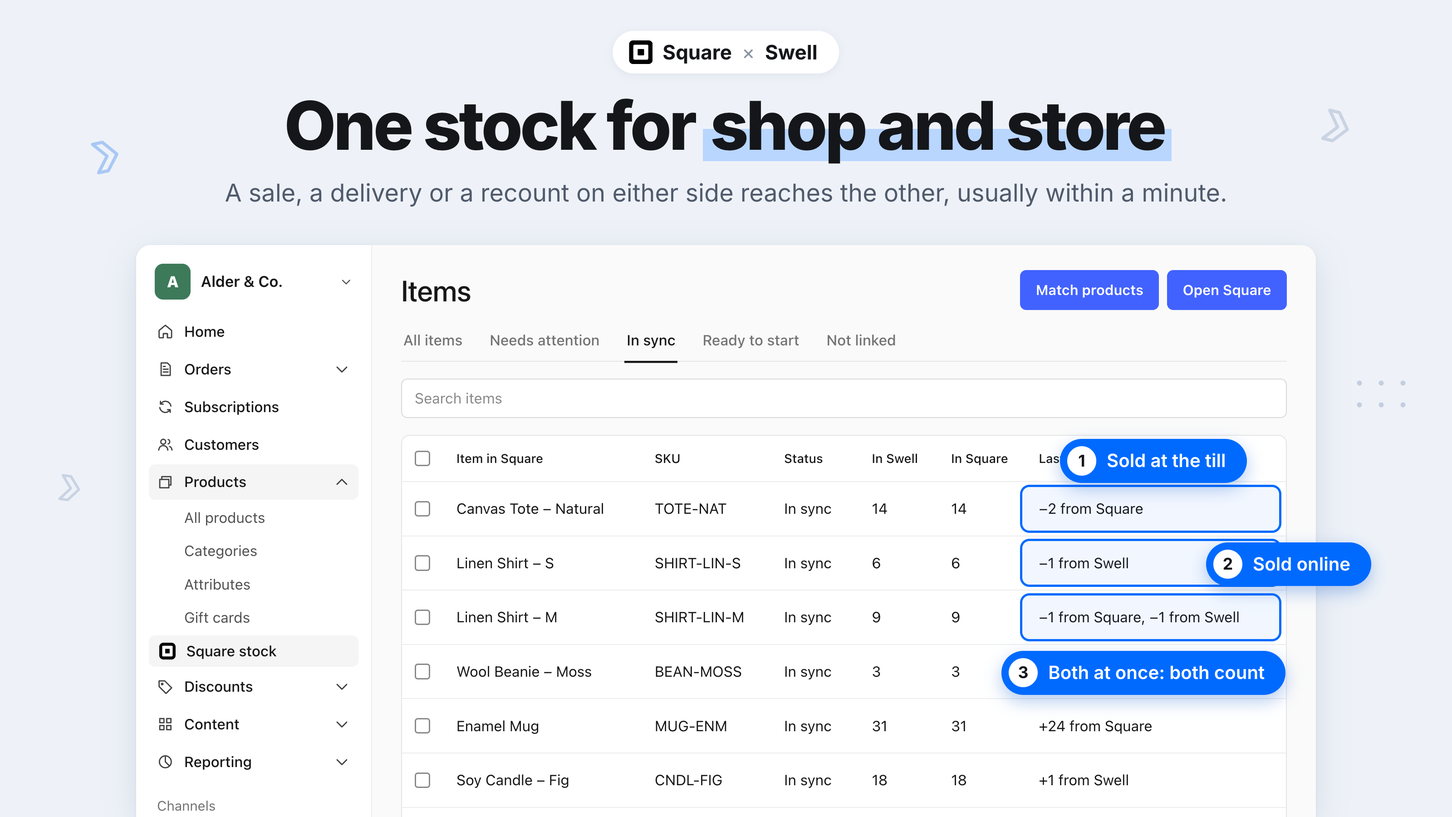
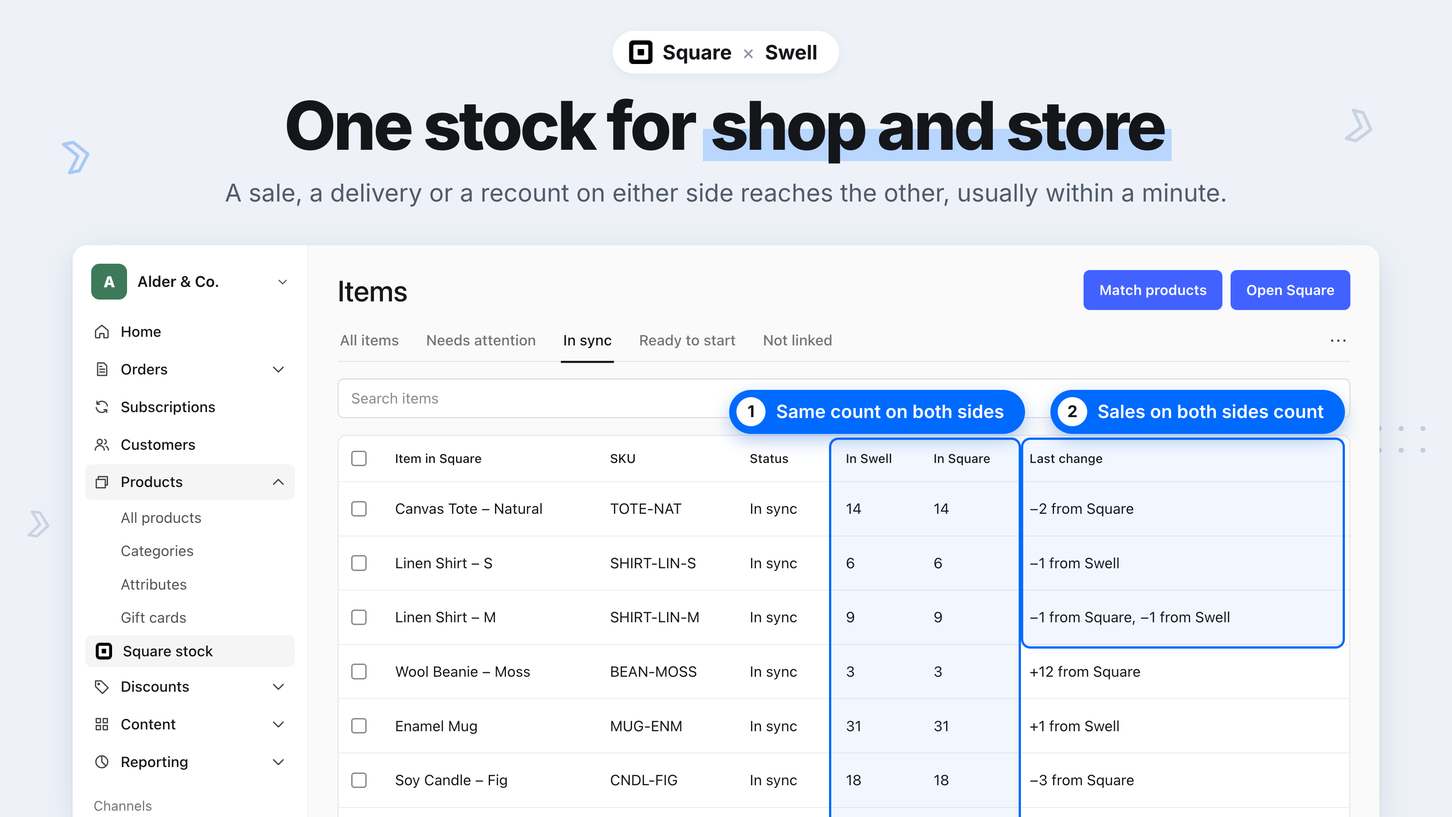
First release

diff --git a/README.md b/README.md
@@ -1,27 +1,47 @@
 # Square POS for Swell
 
-Connects a shop that sells with [Square Point of Sale](https://squareup.com/point-of-sale) to its Swell store. It does two things:
+Connects a shop that sells with [Square Point of Sale](https://squareup.com/point-of-sale) to its Swell store, so that both sell from one stock and keep one order history. A sale, a delivery or a recount on either side reaches the other, usually within a minute. Each sale completed in Square becomes a paid order in Swell, with the lines, discounts, taxes and total of the receipt, on the customer's account when Swell knows the customer.
 
-- **One stock.** The shop and the online store sell from the same stock. A sale, a delivery or a recount on either side reaches the other, usually within a minute.
-- **One order history.** Each sale completed in Square becomes a paid order in Swell, on the customer's account when Swell knows the customer.
-
-The app works with the merchant's own Square access token. Swell runs it: there is no other service between the store and Square. It never changes Square's catalog, orders or customers; in Square it writes stock adjustments only. In Swell it writes stock entries, the orders it imports with their payments and refunds, one account for walk-in customers, and one payment method, "Square POS", which is switched off for shoppers.
+The app runs inside Swell with the merchant's own Square access token; there is no other service in between. In Square it writes stock adjustments only: it never changes the catalog, orders or customers there. In Swell it writes stock entries, the orders it imports with their payments and refunds, one account for walk-in customers, and one payment method, "Square POS", which shoppers never see.
 
 ## Setup
 
+### What you need from Square
+
+- A Square account with at least one location, and the products you sell in both places carrying the **same SKU** in Square and in Swell. Items are linked by SKU only.
+- An application in the [Square Developer Console](https://developer.squareup.com/apps) (any name; it is only a holder for the token). Open its **Credentials** page, switch to **Production**, and copy the **access token**. The token gives access to your whole Square account: treat it like a password.
+
+### Install and connect
+
 1. Install the app from Apps in the Swell dashboard.
-2. In the [Square Developer Console](https://developer.squareup.com/apps), create an application (any name), open its **Credentials** page, switch to **Production** and copy the **access token**. The token gives access to your whole Square account: treat it like a password.
-3. In Swell, open Apps → Square POS → Settings, paste the token under **Square access token**, save, and press **Test connection**. It names the connected account and its locations, registers the notices Square sends to this store when stock or payments change, and adds the payment method "Square POS" that imported sales are recorded with (a manual method, switched off: shoppers never see it).
-4. **Inventory.** If your Square account has several locations, enter the name of the one that shares its stock with the store, turn on **Keep the stock of linked items in sync**, and save. Choose **Match products** in the Actions menu, then open Products → Square stock: each Square item whose SKU a Swell product or variant has is listed as **Ready to start**, with the quantity on both sides. Select the items, choose **Start syncing**, and say which side has the right quantities. Nothing moves before an item is started. See "Stock".
-5. **Sales.** Turn on **Import completed Square sales as orders**. Sales are imported from that moment on: a sale completed earlier stays out, also when it is refunded later. For earlier sales choose **Import past sales** in the Actions menu. See "Sales".
+2. Open Apps → Square POS → Settings, paste the token under **Square access token**, save, and press **Test connection**. It shows the connected account and its locations, registers the notices Square sends to this store when stock or payments change, and adds the payment method "Square POS" that imported sales are recorded with (a manual method, switched off for the checkout).
+3. **Stock.** Under Inventory, turn on **Keep the stock of linked items in sync** and save. Choose **Match products** in the Actions menu. Then open Products → Square stock: each Square item with a matching SKU is listed as **Ready to start**, with its quantity on both sides. Select the items, choose **Start syncing**, and say which side has the right quantities. Nothing moves before an item is started.
+4. **Sales.** Under Sales, turn on **Import completed Square sales as orders** and save. Sales are imported from that moment on. For earlier sales choose **Import past sales** in the Actions menu.
 
-Settings are separate for the store's test and live environments, and both start empty. To try the app without touching your shop, use the **Sandbox** access token of your Square application in the test environment and set **Square environment** to Sandbox. Do not connect the test environment to your production Square account: stock changes of test orders would reach your shop.
+To try the app first, use the **Sandbox** access token of your Square application in the store's test environment, with **Square environment** set to Sandbox. Settings are separate for the test and live environments, and both start empty. Do not connect the test environment to your production Square account: stock changes of test orders would reach your shop.
 
-## Stock
+### Settings
 
-### Which items share their stock
+| Group | Setting | What it does |
+| --- | --- | --- |
+| Connection | **Square access token** | The token from your Square application. Stored as a secret |
+| | **Square environment** | Production (default) or Sandbox. Must match the token: a sandbox token works only with Sandbox |
+| | **Connected account** | Filled in by Test connection: the Square account and its locations |
+| | **Test connection** | Checks the token, lists the locations, registers Square's notices and adds the Square POS payment method. Run it again after changing the token |
+| Inventory | **Keep the stock of linked items in sync** | Off by default. While off, no stock moves in either direction |
+| | **Square location (name)** | The one Square location whose stock is shared with the store. Empty: the account's main location |
+| | **Swell stock location (name)** | Only for stores that keep stock by location: the Swell location paired with the Square one. Empty: the store's stock as a whole |
+| Sales | **Import completed Square sales as orders** | Off by default. Turning it on starts the import from that moment |
+| | **Square locations (names, separated by commas)** | The locations whose sales are imported. Empty: all locations |
+| | **Let other apps and webhooks react to imported orders** | Off by default: imported orders raise no events, so other apps and webhooks are not told about them. Turn it on if, for example, an accounting app should see till sales. Customers get no e-mail either way |
 
-An item is linked when exactly one Square variation and exactly one Swell product or variant have the same SKU. Nothing is guessed: everything else is listed under **Not linked** with the reason.
+Changing the Square location or the Swell stock location stops the started items, since another location holds other quantities. Match products again and start them anew.
+
+## Features
+
+### One stock
+
+**Which items are linked.** An item is linked when exactly one Square variation and exactly one Swell product or variant have the same SKU. Nothing is guessed: everything else is listed under **Not linked** with the reason.
 
 | Not linked because | What to do |
 | --- | --- |
@@ -33,15 +53,11 @@ An item is linked when exactly one Square variation and exactly one Swell produc
 | The Swell product does not track stock | Turn on stock tracking for the product |
 | Square sells the item by weight or measure | Only whole quantities can be shared |
 
-Square variations without a SKU are not listed. Matching changes nothing in Square and moves no stock; run it again whenever you add products or SKUs. Items that are in sync are not touched by it.
+Square variations without a SKU are not listed. Matching changes nothing in Square and moves no stock, and it leaves items that are in sync alone. Run it again whenever you add products or SKUs.
 
-### Starting an item
+**Starting an item** is the one time a side wins. You say whether Square or Swell has the right quantity, and the other side receives the difference as a single stock adjustment ("Square POS: starting stock taken from Square" in Swell's stock history; stock received or removed in Square's). An item that Square has never counted can be started from Swell's quantity.
 
-Starting is the one time a side wins. You say whether Square or Swell has the right quantity, and the other side receives the difference as a single stock adjustment ("Square POS: starting stock taken from Square" in Swell's stock history, received or removed stock in Square's). An item that Square has never counted can be started from Swell's quantity.
-
-### What happens afterwards
-
-Only changes travel, never totals. The app remembers the quantity both sides held after the last sync. What Swell has gained or lost since then is added to Square, and what Square has gained or lost is added to Swell. A sale at the till and an online order at the same moment therefore both count.
+**After that, only changes travel, never totals.** The app remembers the quantity both sides held after the last sync. What Swell gained or lost since then is added to Square, and what Square gained or lost is added to Swell. A sale at the till and an online order at the same moment therefore both count.
 
 | Happens | Arrives as |
 | --- | --- |
@@ -50,50 +66,80 @@ Only changes travel, never totals. The app remembers the quantity both sides hel
 | In Swell: a canceled order, a restocked return, received stock | An adjustment in Square: stock received |
 | In Swell: stock marked damaged or missing | An adjustment in Square: stock lost |
 
-- **How fast.** Square announces a change within seconds, and Swell records its own at once; the sync that follows takes a few seconds more. Every five minutes the app also compares all linked items, whether or not a change was announced, so a lost notice costs minutes and not stock.
-- **Selling the last unit on both sides at once** cannot be prevented by any sync. Both sides then show −1 and the item is listed under **Needs attention** as oversold until its stock is positive again.
-- **A stopped item.** When an item can no longer be synced (its product was deleted, Square has no count for it any more, Square refuses the change) it stops, is listed under **Needs attention** with the reason, and the store's administrators get one e-mail. All other items go on. After correcting the cause, start the item again.
+- **How fast.** Square announces a change within seconds, and Swell records its own at once; the sync that follows takes a few seconds more. Every five minutes the app also compares all linked items, whether or not a change was announced, so a lost notice costs minutes, not stock.
+- **The last unit sold on both sides at once** cannot be prevented by any sync. Both sides then show −1, and the item is listed under **Needs attention** as oversold until its stock is positive again.
+- **An item that stops.** When an item can no longer be synced (its product was deleted, Square has no count for it any more, Square refuses the change), it stops and is listed under **Needs attention** with the reason, and the store's administrators get one e-mail. All other items go on. After correcting the cause, start the item again.
 - **Stop syncing** ends the sharing for the selected items. Nothing changes on either side.
 
-### Stock locations
+Where: Products → Square stock, and the item's own page. Implemented by `functions/square-events.ts` (Square's `inventory.count.updated` notices), `functions/stock-changed.ts` (Swell's `product.stock_adjusted` event), `functions/sweep.ts` (the five-minute comparison) and the `sync` workflow.
 
-One Square location shares its stock with the store. In a Swell store that keeps stock by location, enter the name of the Swell location under **Swell stock location**: the Square location is then paired with that one. Left empty, it is paired with the store's stock as a whole. After changing either location, items stop and have to be started again, since another location holds other quantities.
+### Till sales as orders
 
-## Sales
+Each completed Square sale at the chosen locations becomes one Swell order.
 
-Each completed Square order at the chosen locations becomes one Swell order.
-
-- **The receipt, to the cent.** Lines with name, variation, quantity and price; the discounts and taxes Square charged; tips, service charges and cash rounding as lines of their own. The order's total is what the customer paid. A sale whose lines do not add up to Square's total is not imported and is listed with the reason.
-- **Paid, and silent.** Each Square payment of the sale is recorded on the order as a payment with the method "Square POS" (Square has the money; nothing is charged in Swell), so the order shows as paid, and it needs no fulfillment. No e-mail goes to the customer or to the staff. Other apps and webhooks are not told about it unless you turn on **Let other apps and webhooks react to imported orders**.
+- **The receipt, to the cent.** Lines with name, variation, quantity and price; the discounts and taxes Square charged; tips, service charges and cash rounding as lines of their own. The order's total is what the customer paid. A sale whose lines do not add up to Square's total is not imported: it is listed with the reason, so that no order differs from its receipt.
+- **Paid.** Each Square payment of the sale is recorded on the order as a payment with the method "Square POS" (Square has the money; nothing is charged in Swell), so the order shows as paid. A sale paid by card and cash gets one payment per tender. The order needs no fulfillment.
+- **Silent.** No e-mail goes to the customer or to the staff. Other apps and webhooks are not told about the order unless **Let other apps and webhooks react to imported orders** is on.
 - **No stock is taken.** The lines carry names and amounts, not products, so the order cannot change stock: the stock sync passes on what Square counted. One side effect: Swell's sales reports by product do not include till sales.
-- **Order numbers** start with `SQ-` followed by Square's receipt number, so till sales are recognised in every list and the store's own numbering is not used up.
-- **The customer.** When the sale has a Square customer with an e-mail address and a Swell account has that address, the order goes to that account. All other sales go to one account named "Walk-in customer (Square POS)". The app never creates a customer from a Square profile.
+- **Order numbers** are `SQ-` followed by Square's receipt number, so till sales stand out in every list and the store's own numbering is not used up. The order is dated when the sale was completed, and its comments say where it was sold and how it was paid ("Sold in Square at Main Street, receipt x3Hn. Paid with: Card (Visa 4242).").
+- **The customer.** When the sale has a Square customer with an e-mail address and a Swell account has that address, the order goes to that account. All other sales go to one account, "Walk-in customer (Square POS)". The app never creates a customer from a Square profile.
 - **Refunds.** A refund made in Square is recorded as a refund of the order's Square POS payment, so the order shows as partly refunded or refunded. A refund of a sale that was not imported is left out. Stock follows Square's count when the goods are restocked there.
-- **Not imported:** exchanges (a sale and returned items on one receipt), and sales that an online checkout took through Square's payment API, since that checkout keeps its own orders. Both are listed under **Skipped**.
+- **Not imported:** exchanges (a sale and returned items on one receipt), and sales that an online checkout took through Square's payment API, since that checkout keeps its own orders. Both are listed under **Skipped** with the reason.
+- **How fast.** A sale usually arrives within half a minute of its payment. The five-minute comparison also looks for sales whose notice was lost.
+- **Where it starts.** Sales completed before the import was switched on stay out, also when they are refunded later. **Import past sales** brings them in from a date you choose; a sale imported before is never imported twice.
 
-Orders → Square sales lists every sale with its order. On an order, the **Square POS** tab shows the receipt number, the location, how it was paid and what was refunded.
+Where: Orders → Square sales; the **Square POS** tab on every order (receipt number, location, how it was paid, what was refunded, the Square order ID and a receipt link); the **Square POS** tab in the order list. Implemented by `functions/square-events.ts` (Square's `payment.*` and `refund.*` notices), `functions/sweep.ts` and the `sync` workflow.
 
-## In the dashboard
+### Alerts
 
-| Where | What |
+The store's administrators get one e-mail per incident, not one per item or sale, and no other while it lasts:
+
+| Subject starts with "Action needed:" and | Sent when |
 | --- | --- |
-| Apps → Square POS → Settings | Connection, Inventory and Sales settings; **Test connection** |
-| Actions menu on that page | **Sync now**, **Match products**, **Import past sales**, **Retry failed sales** |
-| Products → Square stock | The linked items with both quantities and the last change. Tabs: Needs attention, In sync, Ready to start, Not linked. **Start syncing** and **Stop syncing** on selected items or on one item |
-| Orders → Square sales | The sales and their orders. Tabs: Needs attention, Imported, Refunded, Skipped. **Retry** and **Mark as resolved** |
-| Orders, tab Square POS | The orders imported from Square |
+| "Square POS is not syncing with \<store\>" | Square refuses the access token, or a location named in the settings does not exist |
+| "Square's notices to \<store\> have stopped" | Square switched off its notices to the store (checked once an hour) |
+| "stock of \<store\> is no longer shared with Square for some items" | An item stopped syncing |
+| "a Square sale could not be imported into \<store\>" | A sale is listed under Needs attention |
+
+Each e-mail says what to do and links to the app. When the subject starts with "(TEST)", the problem is in the store's test environment. Implemented by `models/alerts.json` and `notifications/alert.*`.
+
+### Dashboard actions
+
+| Where | Action | What it does |
+| --- | --- | --- |
+| Settings, Connection | **Test connection** | See "Settings" |
+| Settings, Actions menu | **Sync now** | Compares the stock of every linked item and looks for new Square sales now |
+| | **Match products** | Lists the Square items and their Swell match under Products → Square stock |
+| | **Import past sales** | Imports the sales completed since a date |
+| | **Retry failed sales** | Tries again every sale under Needs attention |
+| Products → Square stock, selected items or one item | **Start syncing**, **Stop syncing** | See "One stock" |
+| | **Open Square** | Opens the item library in the Square Dashboard |
+| Orders → Square sales, selected sales or one sale | **Retry** | Tries the import again and reads the sale's refunds again. A sale that has its order is not imported twice |
+| | **Open Square** | Opens the transactions in the Square Dashboard |
+| A sale's page | **Mark as resolved** | For a failed or skipped sale you recorded by hand, or that needs no order: it is no longer imported or listed under Needs attention |
+| | **View receipt** | Opens Square's receipt |
+
+The buttons start a run in the background; the lists show its result a few seconds later.
+
+## Day-to-day use
+
+- **Selling** needs nothing from you: sell at the till and online as before.
+- **New products.** Give a new product the same SKU in Square and in Swell, choose **Match products**, and start it under Products → Square stock (**Ready to start** tab).
+- **Refunds and returns** are made in Square for till sales, and in Swell for online orders, as before. Restock returned goods on the side that took them back; the stock sync passes the count on.
+- **When an e-mail arrives**, open the app and look under **Needs attention** in Products → Square stock or Orders → Square sales. Each entry names its cause. See "When something goes wrong".
+- **To check the two sides now**, choose **Sync now** in the Actions menu of the settings.
 
 ## When something goes wrong
 
 | What you see | Why, and what to do |
 | --- | --- |
-| E-mail "Square POS is not syncing" | Square refused the access token, or a location named in the settings does not exist. Correct it in the settings and press Test connection. Nothing is lost: when the connection works again, the changes of each side since the last sync are passed to the other, and the sales made meanwhile are imported |
+| E-mail "Square POS is not syncing" | Square refused the access token, or a location named in the settings does not exist. Correct it in the settings and press Test connection. Nothing is lost: once the connection works, the changes of each side since the last sync are passed to the other, and the sales made meanwhile are imported |
 | E-mail "Square's notices have stopped" | Square switches its notices off when they fail for a long time. Press Test connection to switch them on again. Meanwhile changes are found every five minutes |
 | An item under Needs attention | The note says what stopped it. Correct the cause and start the item again |
 | A sale under Needs attention | The problem is on the sale. **Retry** after correcting the cause, or **Mark as resolved** after recording the sale by hand |
-| A sale under Needs attention: "Swell has no payment method Square POS" | The method was removed under Settings → Payments. Press Test connection, which adds it again, then **Retry** |
+| A sale under Needs attention: "Swell has no payment method "Square POS"" | The method was removed under Settings → Payments. Press Test connection, which adds it again, then **Retry** |
 | Stock differs between Square and Swell for a linked item | It should not for longer than five minutes. Choose **Sync now**. If the item is under Needs attention, see above |
-| Test connection: "did not accept the access token" | The token was replaced in Square, or **Square environment** does not match it: a sandbox token works only with Sandbox |
+| Test connection: "Square did not accept the access token" | The token was replaced in Square, or **Square environment** does not match it: a sandbox token works only with Sandbox |
 
 ## Limits and known issues
 
@@ -105,35 +151,9 @@ Orders → Square sales lists every sale with its order. On an order, the **Squa
 - **A refund is recorded when Square has it**, also while Square still shows it as pending (cash refunds are; card refunds complete within days). A card refund that Square later reports as failed stays recorded on the order: correct it by hand.
 - **Imported orders are not linked to products** (see "No stock is taken").
 - **Square gift cards and loyalty** are shown as the way a sale was paid, nothing more.
-- **One environment per Square account.** Connecting the test and the live environment of a store to the same Square location makes both share that location's stock.
-- **After uninstalling**, delete the app's subscription under Webhooks in the Square Developer Console ("Swell <store>"), or Square keeps sending notices until it gives up.
-
-## How it is built
-
-| Part | Files | Job |
-| --- | --- | --- |
-| Route function | `functions/square-events.ts` | Receives Square's notices, checks their signature, marks the items or asks for a sales search, starts a sync |
-| Event function | `functions/stock-changed.ts` | `product.stock_adjusted`: marks the item, starts a sync |
-| Cron function | `functions/sweep.ts` | Every five minutes: starts a sync that compares everything; once an hour checks that Square's notices are still switched on |
-| Workflow | `functions/sync.ts`, `functions/lib/run.ts` | The only place where stock is written and sales are imported. Also runs the dashboard actions |
-| Action functions | `functions/test-connection.ts`, `functions/resolve-sale.ts` | The two buttons that answer at once |
-| Stock | `functions/lib/merge.ts`, `stock.ts`, `match.ts` | The merge (pure), its execution, the SKU match |
-| Sales | `functions/lib/order.ts`, `sales.ts` | The Square order as a Swell order (pure), the import and the refunds |
-| Models | `models/` | `items` (the pairs), `sales`, `alerts`, `state`, and the fields on orders |
-| Permissions | `swell.json` | Products (stock entries), orders, payments (the records of Square's payments and refunds), customers (the walk-in account and the match by e-mail), settings (the stock locations, and the Square POS payment method) |
-| Views | `content/` | Products → Square stock, Orders → Square sales, the Square POS tabs on orders |
-| Notification | `notifications/alert.*` | The e-mail to the administrators, one per incident |
-
-What makes it reliable:
-
-1. **Only differences travel.** A change on one side is added to the other; it never replaces what happened there meanwhile.
-2. **Every step is written down before it is taken.** The pair's record holds the step in progress. The request to Square carries references made from it, and the Swell stock entry an id made from it. A sync that is cut short repeats the step exactly: it asks Square whether the change is there before sending it again, and a stock entry posted twice under one id is one entry.
-3. **One sync at a time.** The functions only mark and start; the workflow alone writes, and holds a claim while it does. A claim that shows no sign of life for four minutes is taken over, also when its run never began.
-4. **Notices are hints, numbers are the truth.** A notice only says "look at this item". The sync compares quantities, so its own changes, repeated notices and notices out of order do no harm.
-5. **Nothing is guessed.** A missing count is never read as zero. What cannot be linked or imported is listed with the reason.
-6. **Stock and sales are separate.** An imported order never moves stock, and a sale that cannot be imported never holds stock back.
-
-Square's API version is pinned (`SQUARE_VERSION` in `functions/lib/square.ts`), for the calls and for the notices.
+- **One environment per Square location.** Connecting the test and the live environment of a store to the same Square location makes both share that location's stock.
+- **After uninstalling**, delete the app's subscription under Webhooks in the Square Developer Console ("Swell \<store\>"), or Square keeps sending notices until it gives up.
+- **Environments.** The app works in the store's live and test environments, against Square's production and sandbox. Square's sandbox has no till: sales made there through the API count as taken by an online checkout, and the app imports them in Sandbox mode only.
 
 ## Development
 
@@ -146,9 +166,35 @@ swell app push      # deploys to the test environment of the logged-in store
 
 The unit tests replace Square with an in-memory stand-in (`test/helpers/square.ts`) that behaves as the sandbox was seen to, and the store with another (`test/helpers/store.ts`). The orders in `test/fixtures/square-orders.ts` are real API responses.
 
-After a change in `functions/lib/` only, push with `--force`: push skips function files whose own content did not change. Workflows do not run under `swell app dev`; they are tested after a push.
+Use `swell app push --force` after a change that touches only `functions/lib/`: push skips function files whose own content did not change. Workflows do not run under `swell app dev`; test them after a push. Square's API version is pinned (`SQUARE_VERSION` in `functions/lib/square.ts`), for the calls and for the notices.
 
-Square's sandbox has no till. Orders, payments and refunds are created there through the API, and such sales count as taken by an online checkout: the app imports them in Sandbox mode only.
+### How it stays right
+
+1. **Only differences travel.** A change on one side is added to the other; it never replaces what happened there meanwhile.
+2. **Every step is written down before it is taken.** The item's record holds the step in progress. The request to Square carries references made from it, and the Swell stock entry an id made from it. A sync that is cut short repeats the step exactly: it asks Square whether the change is there before sending it again, and a stock entry posted twice under one id is one entry.
+3. **One sync at a time.** The functions only mark and start; the workflow alone writes, and holds a claim while it does. A claim that shows no sign of life for four minutes is taken over, also when its run never began.
+4. **Notices are hints, numbers are the truth.** A notice only says "look at this item". The sync compares quantities, so its own changes, repeated notices and notices out of order do no harm.
+5. **Nothing is guessed.** A missing count is never read as zero. What cannot be linked or imported is listed with the reason.
+6. **Stock and sales are separate.** An imported order never moves stock, and a sale that cannot be imported never holds stock back.
+
+### Structure
+
+| Path | Purpose |
+| --- | --- |
+| `swell.json` | Manifest: permissions and the listing's short description and images. Products (stock entries), orders, payments (the records of Square's payments and refunds), accounts (the walk-in account and the match by e-mail), settings (the stock locations, and the Square POS payment method) |
+| `settings/connection.json`, `inventory.json`, `sales.json` | The three settings groups, Test connection and the Actions menu |
+| `functions/square-events.ts` | Route: receives Square's notices, checks their signature, marks the items or asks for a sales search, starts a sync |
+| `functions/stock-changed.ts` | `product.stock_adjusted` → marks the item, starts a sync |
+| `functions/sweep.ts` | Cron, every five minutes: starts a sync that compares everything; once an hour checks that Square's notices are still on |
+| `functions/sync.ts`, `functions/lib/run.ts` | Workflow: the only place where stock is written and sales are imported. Also runs the dashboard actions |
+| `functions/test-connection.ts`, `resolve-sale.ts` | The two actions that answer at once |
+| `functions/lib/merge.ts`, `stock.ts`, `match.ts` | Stock: the merge (pure), its execution, the SKU match |
+| `functions/lib/order.ts`, `sales.ts` | Sales: the Square order as a Swell order (pure), the import and the refunds |
+| `functions/lib/square.ts` | The only module that talks to Square |
+| `models/` | `items` (the linked pairs), `sales`, `alerts`, `state`, and the app's fields on orders |
+| `content/` | Products → Square stock, Orders → Square sales, the Square POS tabs on orders |
+| `notifications/alert.*` | The e-mail to the administrators, sent when an alert record is created |
+| `test/unit/` | Unit tests; Square and the store are stand-ins |
 
 ### App Store listing
 

diff --git a/DESCRIPTION.md b/DESCRIPTION.md
@@ -1,13 +1,15 @@
-Sell from one stock in your Square shop and your Swell store, and see every till sale in your Swell order history. A sale, a delivery or a recount on either side reaches the other, usually within a minute, and each sale completed in Square becomes a paid order in Swell.
+Sell from one stock in your Square shop and your Swell store, and keep every till sale in your Swell order history. When something sells, arrives or is recounted on either side, the other side has it, usually within a minute. Each sale completed in Square becomes a paid order in Swell, with the lines and total of its receipt, to the cent.
 
-Connect Square with your own access token. The app runs inside Swell and never changes your Square catalog, orders or customers: in Square it writes stock adjustments only.
+Connect Square with an access token from your own Square developer application. The app runs inside Swell, with no other service in between, and leaves your Square catalog, orders and customers as they are: in Square it only adjusts stock.
 
-- **Stock that adds up.** Only changes travel, never totals: what Swell sold is taken off Square's count, and what Square sold is taken off Swell's. A sale at the till and an online order at the same moment both count, and a count copied over from the other side never wipes out a change.
-- **Linked by SKU, on your word.** Match products pairs each Square variation with the Swell product or variant that has the same SKU, and lists them with both quantities. You start the pairs and say which side has the right numbers. Doubled or missing SKUs and untracked items stay unlinked, with the reason.
-- **A stock history you can read.** Every change that comes from Square is an entry in the product's stock history in Swell, marked Square POS, with what happened: sold, received, recount. Online orders arrive in Square as stock sold.
-- **Till sales as orders.** Lines, discounts, taxes, tips and the total are those of the receipt, to the cent. The orders are paid, need no fulfillment, take no stock a second time and send no e-mails. Their numbers start with SQ- and Square's receipt number.
-- **On the customer's account.** A sale goes to the Swell account with the e-mail address of the Square customer. The app creates no customers: all other sales go to one walk-in account.
-- **Refunds.** A refund made in Square is recorded on its order, and a full refund marks the order as refunded.
-- **Nothing lost quietly.** Every five minutes all linked items are compared, whether or not Square announced a change. A step that was cut short is finished exactly once. What cannot be synced or imported is listed under Needs attention with the reason, and your administrators get one e-mail.
+- **Sales on both sides count.** The app passes on what changed, never a total that overwrites the other side. A sale at the till and an online order for the same item at the same moment both come off the stock, in Square and in Swell.
+- **Linked by SKU, started by you.** Match products pairs each Square item with the Swell product or variant that has the same SKU, and lists both quantities. You start the pairs and say which side has the right numbers. Items with a doubled or missing SKU, or without stock tracking, stay unlinked, with the reason.
+- **A stock history you can read.** Every change from Square appears in the product's stock history in Swell, marked Square POS, with what happened: sold, received, recounted. Online orders arrive in Square as stock sold.
+- **Till sales as paid orders.** Lines, discounts, taxes, tips and the total are those of the receipt. The orders are numbered SQ- with Square's receipt number, are paid with the Square POS payment method, need no fulfillment, take no stock a second time and send your customers no e-mail.
+- **On the customer's account.** A sale with a Square customer goes to the Swell account with the same e-mail address. The app creates no customers: all other sales go to one walk-in account.
+- **Refunds follow.** A refund made in Square is recorded on its order, which then shows as partly refunded or refunded.
+- **Nothing guessed, nothing lost.** Every five minutes the app compares all linked items, even when Square sent no notice. What can't be synced or imported is listed under Needs attention with the reason, and your administrators get one e-mail. Once the cause is fixed, retry the sale or start the item again. Nothing is imported twice.
 
-Setup takes a few minutes. In the Square Developer Console, create an application and copy its production access token. In Swell, paste the token in the app settings and run Test connection, choose Match products, start the matched items under Products → Square stock, and switch on the stock sync and the sales import. To try it first, use the application's sandbox token in your store's test environment. The app shares the stock of one Square location; sales can be imported from all of them. Items sold by weight are not linked, and products are not created on either side.
+Setup takes a few minutes. In the Square Developer Console, create an application and copy its production access token. In Swell, paste the token in the app settings and run Test connection. Turn on the stock sync, choose Match products, and start the matched items under Products → Square stock. Then turn on the sales import; earlier sales can be imported from a date you choose. To try the app first, use your application's sandbox token in your store's test environment.
+
+Stock is shared with one Square location, and sales can be imported from all of them. Products are not created or changed on either side, and items sold by weight are not linked. Imported orders carry the receipt's lines but no products, so Swell's sales reports by product leave out till sales.
